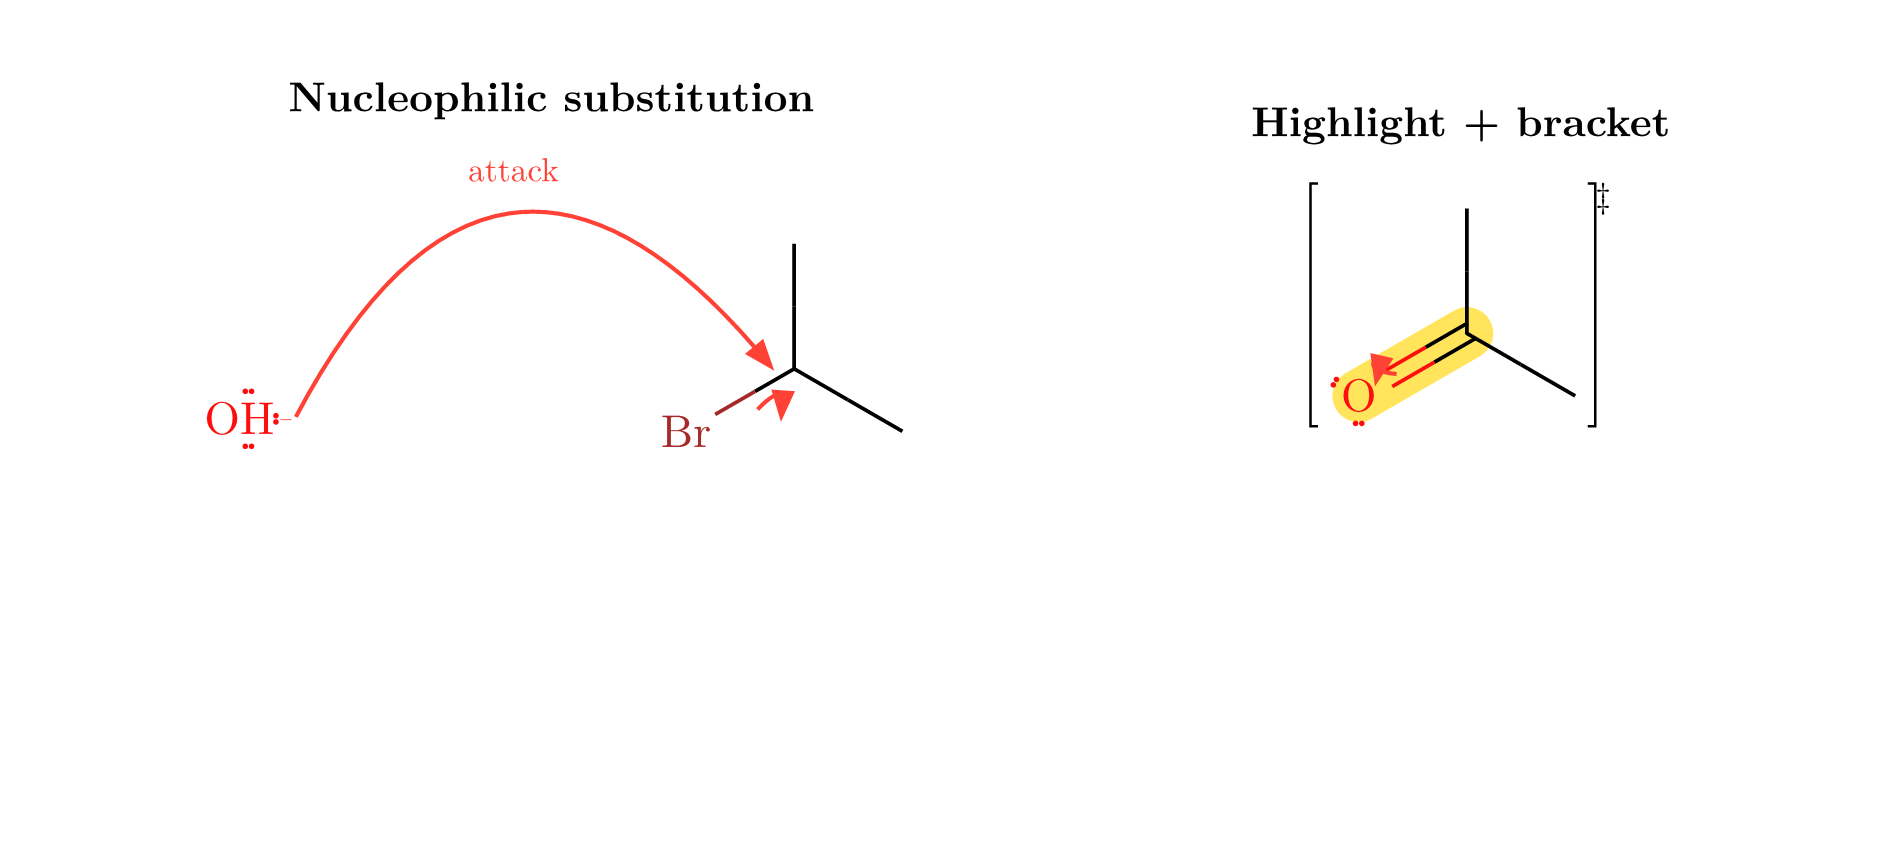
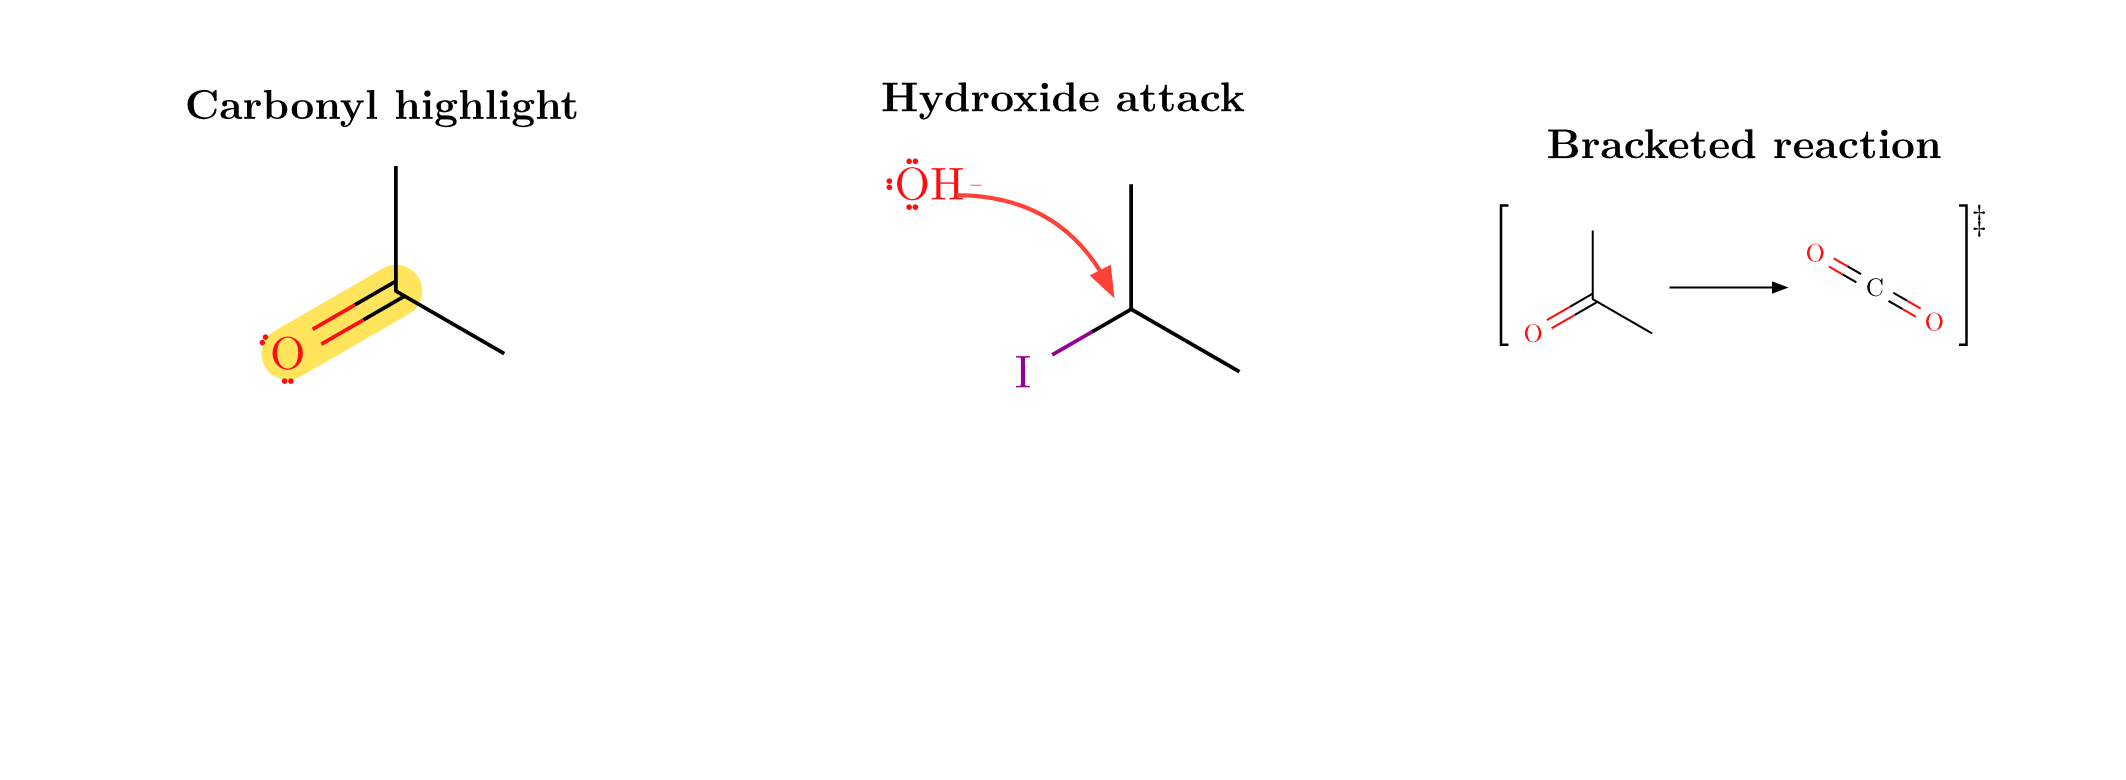
Update mechanism README examples

diff --git a/README.md b/README.md
@@ -236,21 +236,20 @@ cleanly. A curly `arrow()` or `highlight()` (or any `offset:`) switches `reactio
 from a grid into one shared canvas — plain schemes are unaffected.
 
 ```typst
-#reaction(
-  mol("[OH-]", lone-pairs: "dots"),
-  mol("C(Br)(C)C", offset: (1.5, 0.4)),
-  arrow(from: lp(0, 0), to: atom(1, 0), bend: "left", color: red, label: [attack]),
-  arrow(from: bond(1, 0, 1), to: atom(1, 1, offset: (0.9, 0)), bend: "left", color: red),
+#smiles(
+  "CC(=O)C",
+  lone-pairs: "dots",
+  highlight(bond(1, 2), fill: rgb("#FFE45C"), include-atoms: true),
 )
 
-// intramolecular arrows + highlight, wrapped in a transition-state bracket
+#reaction(
+  mol("[OH-]", lone-pairs: "dots", offset: (1.5, 1)),
+  mol("C(I)(C)C"),
+  arrow(from: lp(0, 0), to: atom(1, 0), bend: "left"),
+)
+
 #brackets(
-  smiles(
-    "CC(=O)C",
-    lone-pairs: "dots",
-    highlight(bond(1, 2), fill: rgb("#FFE45C")),
-    arrow(from: bond(1, 2), to: atom(2), bend: "right", color: red),
-  ),
+  [#reaction(smiles("CC(=O)C"), rxn-arrow(), smiles("O=C=O"), scale: 0.55)],
   sup: [‡],
 )
 ```
